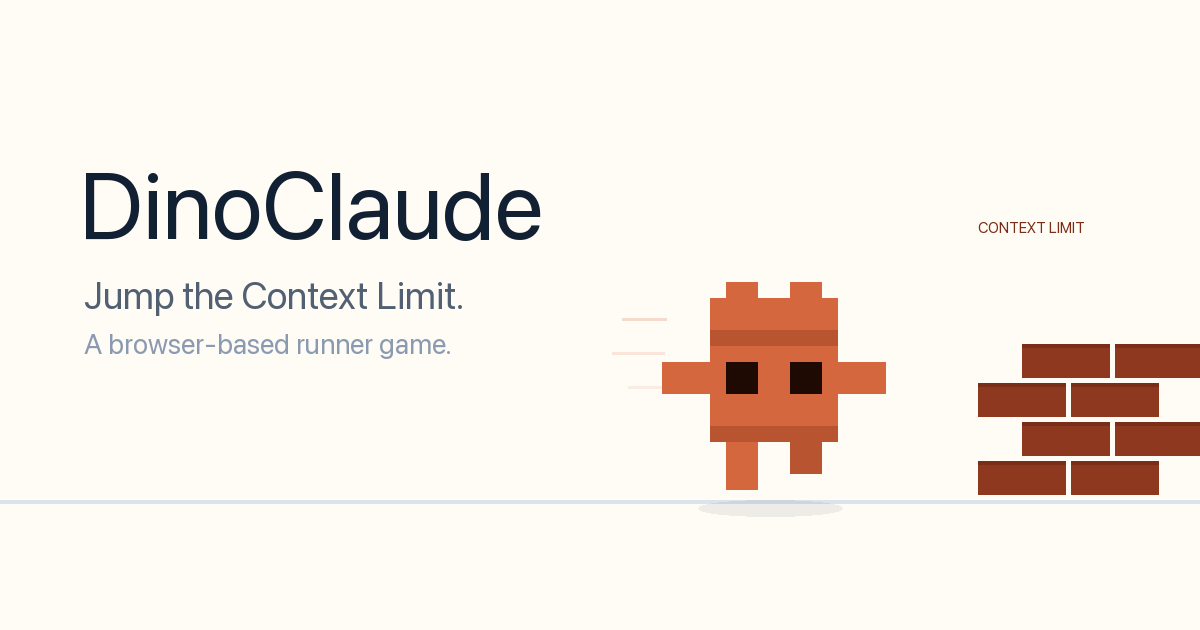
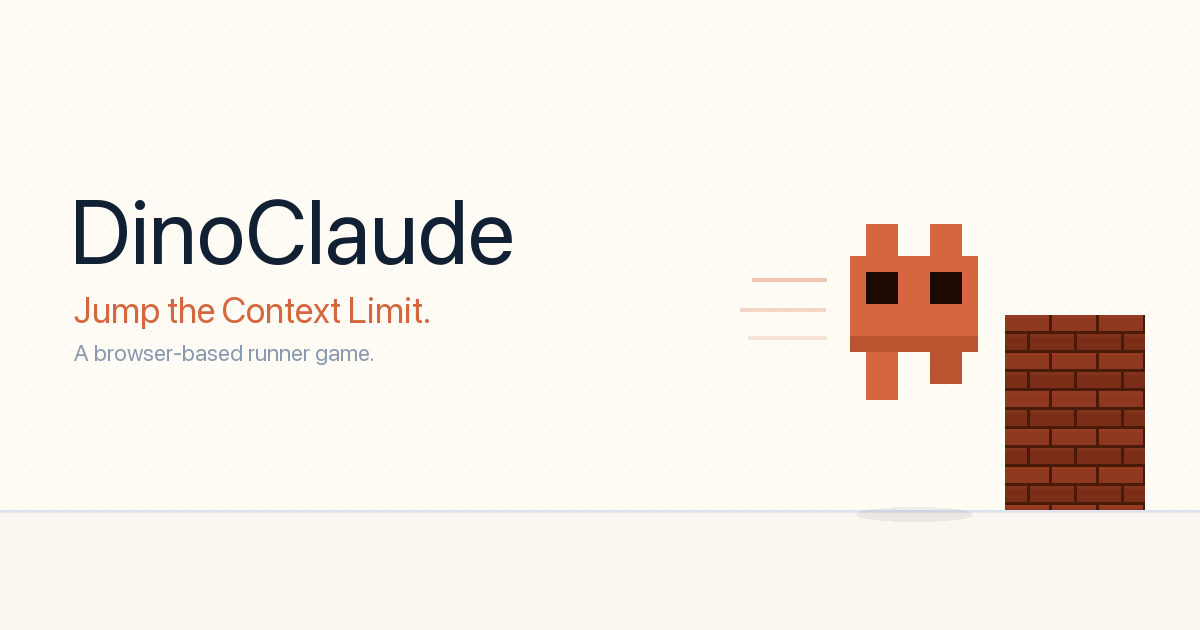
Fix OG image mascot and improve composition
Rewrite generate-og.py to use the exact drawChar() sprite from game.js —
removes invented arms, separate head section, and antennae that were never
part of the game character. Character now renders mid-jump (110px airborne)
with correct ears/body/eyes/legs-only structure.

Wall uses tight alternating brick rows (44×16px, 3px mortar) matching the
game's drawBrickWall() aesthetic, without the "CONTEXT LIMIT" label. Tagline
is now in brand orange for better visual hierarchy. Add subtle dot-grid
background texture and ground-below fill for depth.

Also adds jekyll-sitemap plugin (Gemfile + _config.yml).

diff --git a/design/generate-og.py b/design/generate-og.py
@@ -1,92 +1,105 @@
 #!/usr/bin/env python3
 """Generates assets/images/og-image.png for DinoClaude."""
 from PIL import Image, ImageDraw, ImageFont
-import os, sys
+import os
 
 W, H = 1200, 630
 OUT = os.path.join(os.path.dirname(__file__), '..', 'assets', 'images', 'og-image.png')
 
-BG      = (255, 251, 245)
-TEXT1   = ( 18,  32,  51)
-TEXT2   = ( 81,  96, 114)
-TEXT3   = (138, 154, 176)
-OR      = (212, 103,  61)
-OR2     = (184,  85,  48)
-DK      = ( 30,  10,   2)
-BRICK1  = (143,  56,  32)
-BRICK2  = (122,  46,  24)
-BRICK3  = ( 94,  32,  16)
-GROUND  = (219, 227, 238)
+BG     = (255, 251, 245)
+TEXT1  = ( 18,  32,  51)
+TEXT2  = ( 81,  96, 114)
+TEXT3  = (138, 154, 176)
+OR     = (212, 103,  61)
+OR2    = (184,  85,  48)
+DK     = ( 30,  10,   2)
+BRICK1 = (143,  56,  32)
+BRICK2 = (122,  46,  24)
+MORTAR = ( 74,  26,   8)
+GROUND = (219, 227, 238)
 
 img = Image.new('RGB', (W, H), BG)
-d = ImageDraw.Draw(img, 'RGBA')
+d   = ImageDraw.Draw(img, 'RGBA')
 
-# Ground line
-d.rectangle([0, 500, W, 503], fill=GROUND)
+# ── Subtle dot-grid background texture ───────────────────────────────────────
+for dot_x in range(10, W, 20):
+    for dot_y in range(10, H, 20):
+        d.ellipse([dot_x-1, dot_y-1, dot_x+1, dot_y+1], fill=(18, 32, 51, 9))
 
-# ── Pixel-art mascot ──────────────────────────────────────────────────────────
-P = 16    # 1 pixel = 16px  (game uses P=6, scaled up ~2.67x)
-bx = 710  # left edge of sprite
-by = 490  # bottom edge of sprite (ground level)
+# Ground
+d.rectangle([0, 510, W, 512], fill=GROUND)
+d.rectangle([0, 512, W, H],   fill=(245, 239, 230, 110))
+
+# ── Pixel-art mascot ─────────────────────────────────────────────────────────
+# Exact game sprite from drawChar() in game.js, no additions.
+# sq(bx, by, col, row, w, h) → fillRect(bx+col*P, by-(row+h)*P, w*P, h*P)
+# P=16, bx=850, by=400  →  character bottom at y=400, ground at y=510 (110px airborne)
+
+P  = 16
+bx = 850
+by = 400
 
 def sq(col, row, w, h, color):
     x = bx + col * P
     y = by - (row + h) * P
     d.rectangle([x, y, x + w*P - 1, y + h*P - 1], fill=color)
 
-# Body (torso)
-sq(0, 3, 8, 6, OR)
-sq(0, 3, 8, 1, OR2)       # darker bottom strip on torso
-# Face / head
-sq(0, 9, 8, 2, OR)
-sq(0, 9, 8, 1, OR2)       # brow line
-sq(0, 11, 8, 1, OR)       # top of head
-# Antennae
-sq(1, 12, 2, 1, OR)
-sq(5, 12, 2, 1, OR)
-# Eyes
-sq(1, 6, 2, 2, DK)
-sq(5, 6, 2, 2, DK)
-# Arms (raised — jump pose)
-sq(-3, 6, 3, 2, OR)
-sq( 8, 6, 3, 2, OR)
-# Legs (jumping — spread apart)
-sq(1, 0, 2, 3, OR)
-sq(5, 1, 2, 2, OR2)
+sq(1, 9, 2, 2, OR)    # left ear
+sq(5, 9, 2, 2, OR)    # right ear
+sq(0, 3, 8, 6, OR)    # body
+sq(0, 3, 8, 1, OR2)   # body: darker bottom strip
+sq(1, 6, 2, 2, DK)    # left eye
+sq(5, 6, 2, 2, DK)    # right eye
+sq(1, 0, 2, 3, OR)    # left leg  (animF=0: forward, 3 rows)
+sq(5, 1, 2, 2, OR2)   # right leg (animF=0: back,    2 rows)
 
-# Shadow ellipse on ground
+# Jump shadow
 shadow = Image.new('RGBA', (W, H), (0, 0, 0, 0))
 ds = ImageDraw.Draw(shadow)
-cx, cy, rx, ry = 770, 508, 72, 8
+cx, cy, rx, ry = 914, 514, 58, 7
 ds.ellipse([cx-rx, cy-ry, cx+rx, cy+ry], fill=(18, 32, 51, 18))
-img.paste(Image.alpha_composite(Image.new('RGBA', (W, H), (0,0,0,0)), shadow).convert('RGB'), mask=shadow.split()[3])
+img.paste(Image.alpha_composite(Image.new('RGBA', (W, H), (0, 0, 0, 0)), shadow).convert('RGB'), mask=shadow.split()[3])
 
-# Motion lines
-for x1, x2, y, alpha in [(622, 666, 318, 55), (612, 664, 352, 38), (628, 666, 386, 25)]:
-    d.rectangle([x1, y, x2, y+2], fill=OR + (alpha,))
+# Motion lines (trailing left of character at bx=850)
+for x1, x2, y, alpha in [
+    (752, 826, 278, 90),
+    (740, 825, 308, 62),
+    (748, 826, 336, 42),
+]:
+    d.rectangle([x1, y, x2, y + 3], fill=OR + (alpha,))
 
 # ── Brick wall ───────────────────────────────────────────────────────────────
-bw, bh, gap = 88, 34, 5
+# Matches game: BH=11, BG=2, BW=34 style, but scaled up for the OG image.
+wall_x, wall_y, wall_w, wall_h = 1005, 315, 140, 195
+BW, BH, BG = 44, 16, 3
 
-def brick(x, y):
-    d.rectangle([x, y, x+bw-1, y+bh-1], fill=BRICK1)
-    d.rectangle([x, y, x+bw-1, y+3],   fill=BRICK2)
+# Mortar base
+d.rectangle([wall_x, wall_y, wall_x + wall_w - 1, wall_y + wall_h - 1], fill=MORTAR)
 
-wx = 978
-for row in range(4):
-    wy = 500 - (row + 1) * (bh + gap)
-    off = 44 if row % 2 == 1 else 0
-    for col in range(3):
-        bx2 = wx + off + col * (bw + gap)
-        if bx2 + bw <= W + 20:
-            brick(bx2, wy)
+row = 0
+y   = wall_y
+while y < wall_y + wall_h:
+    offset = (BW // 2) if row % 2 == 1 else 0
+    bh     = min(BH, wall_y + wall_h - y)
+    x      = wall_x - offset
+    while x < wall_x + wall_w:
+        bxw   = max(x, wall_x)
+        bwid  = min(x + BW, wall_x + wall_w) - bxw
+        if bwid > 0 and bh > 0:
+            fill = BRICK1 if row % 2 == 0 else BRICK2
+            d.rectangle([bxw, y, bxw + bwid - 1, y + bh - 1], fill=fill)
+            # Subtle top highlight on each brick
+            d.rectangle([bxw, y, bxw + bwid - 1, y + min(2, bh - 1)], fill=OR2 + (30,))
+        x += BW + BG
+    y   += BH + BG
+    row += 1
 
 # ── Typography ───────────────────────────────────────────────────────────────
-def load_font(size, bold=False):
-    # Try system fonts on macOS, fall back to default
+def load_font(size):
     candidates = [
         '/System/Library/Fonts/SFNS.ttf',
         '/System/Library/Fonts/SFNSDisplay.ttf',
+        '/System/Library/Fonts/SFNSText.ttf',
         '/System/Library/Fonts/Helvetica.ttc',
         '/Library/Fonts/Arial.ttf',
         '/System/Library/Fonts/Arial.ttf',
@@ -99,17 +112,13 @@ def load_font(size, bold=False):
                 continue
     return ImageFont.load_default()
 
-font_title   = load_font(94, bold=True)
-font_tagline = load_font(38)
-font_sub     = load_font(28)
-font_label   = load_font(15)
+font_title   = load_font(90)
+font_tagline = load_font(36)
+font_sub     = load_font(23)
 
-d.text((80, 148), "DinoClaude", font=font_title,   fill=TEXT1)
-d.text((84, 272), "Jump the Context Limit.", font=font_tagline, fill=TEXT2)
-d.text((84, 326), "A browser-based runner game.", font=font_sub, fill=TEXT3)
-
-# CONTEXT LIMIT label above wall
-d.text((978, 218), "CONTEXT LIMIT", font=font_label, fill=BRICK2)
+d.text((70, 176), "DinoClaude",               font=font_title,   fill=TEXT1)
+d.text((74, 288), "Jump the Context Limit.",   font=font_tagline, fill=OR)
+d.text((74, 338), "A browser-based runner game.", font=font_sub,  fill=TEXT3)
 
 img.save(OUT, 'PNG', optimize=True)
-print(f"Saved {OUT} ({os.path.getsize(OUT):,} bytes)")
+print(f"Saved {OUT}  ({os.path.getsize(OUT):,} bytes)")
